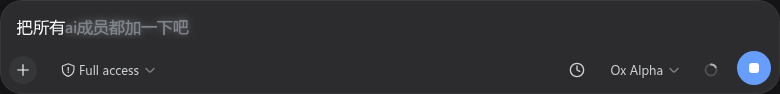
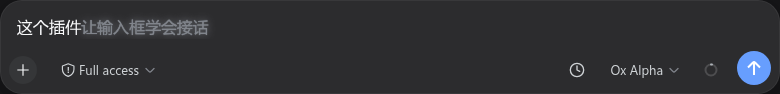
fix(client): extractHistory 兼容 chat 视图节点，修复历史补全静默失效
rc.7 装配后的 chat 视图把事件载荷包在 node.data（data.content/data.source），
原实现只读顶层字段导致此类会话历史候选恒为空、补全静默失效。
现优先读 node.data 并回退 legacy 顶层；新增 chat 形态冒烟回归。

docs: README 演示截图换为推广文案实拍

Changed region(s): [[0.0, 0.2128, 0.2769, 0.383], [0.9538, 0.6596, 0.9846, 0.7872], [0.8923, 0.6809, 0.9231, 0.7234]]

diff --git a/src/client/history.ts b/src/client/history.ts
@@ -30,17 +30,26 @@ export function textOf(blocks: unknown): string {
 /** 单条候选文本最大长度：超过视为系统注入/超大粘贴，不进历史候选。 */
 export const HISTORY_TEXT_MAX_CHARS = 2000;
 
-/** 从会话快照 nodes 提取可补全的历史用户消息（去相邻重复、跳过空白与系统注入块）。 */
+/** 从会话快照 nodes 提取可补全的历史用户消息（去相邻重复、跳过空白与系统注入块）。
+ * 兼容两种节点形态：legacy 节点把 content/source 放在顶层；装配后的 chat 视图
+ * 节点把它们包在 `node.data` 里。 */
 export function extractHistory(nodes: readonly unknown[]): string[] {
   const out: string[] = [];
   for (const node of nodes) {
     if (typeof node !== 'object' || node === null) continue;
-    const record = node as { kind?: unknown; content?: unknown; source?: { kind?: unknown } };
-    if (record.kind !== 'user') continue;
-    // 节点若带 source（部分视图有），非真实用户输入的注入消息直接跳过。
-    const srcKind = record.source?.kind;
+    const record = node as {
+      kind?: unknown;
+      data?: { content?: unknown; source?: { kind?: unknown } };
+      content?: unknown;
+      source?: { kind?: unknown };
+    };
+    if (record.kind !== 'user' && record.kind !== 'user/message') continue;
+    // 载荷优先取 chat 视图包裹层 node.data，回退 legacy 顶层。
+    const payload = (record.data ?? record) as { content?: unknown; source?: { kind?: unknown } };
+    // 节点若带 source，非真实用户输入的注入消息直接跳过。
+    const srcKind = payload.source?.kind;
     if (typeof srcKind === 'string' && srcKind !== 'user') continue;
-    const text = textOf(record.content).trim();
+    const text = textOf(payload.content).trim();
     // 空白 / 系统提醒包装块 / 超长文本（无法成为有效补全，且污染频次统计）。
     if (text === '' || text.startsWith('<system-reminder>') || text.length > HISTORY_TEXT_MAX_CHARS) continue;
     const last = out[out.length - 1];

diff --git a/README.md b/README.md
@@ -17,7 +17,7 @@
 
 ## 👀 它长什么样
 
-![历史补全：输入「把所有」，幽灵文本自动补全剩余部分](docs/screenshot-history.png)
+![输入「这个插件」，幽灵文本自动补全出「让输入框学会接话」](docs/screenshot-history.png)
 
 *历史补全模式实拍——灰色部分是来自会话历史的建议，**Tab** 一键补全。
 草稿为空时切换到 LLM 模式：回合结束后自动预测你的下一句，同样的幽灵样式、同样的 Tab 采纳。*
